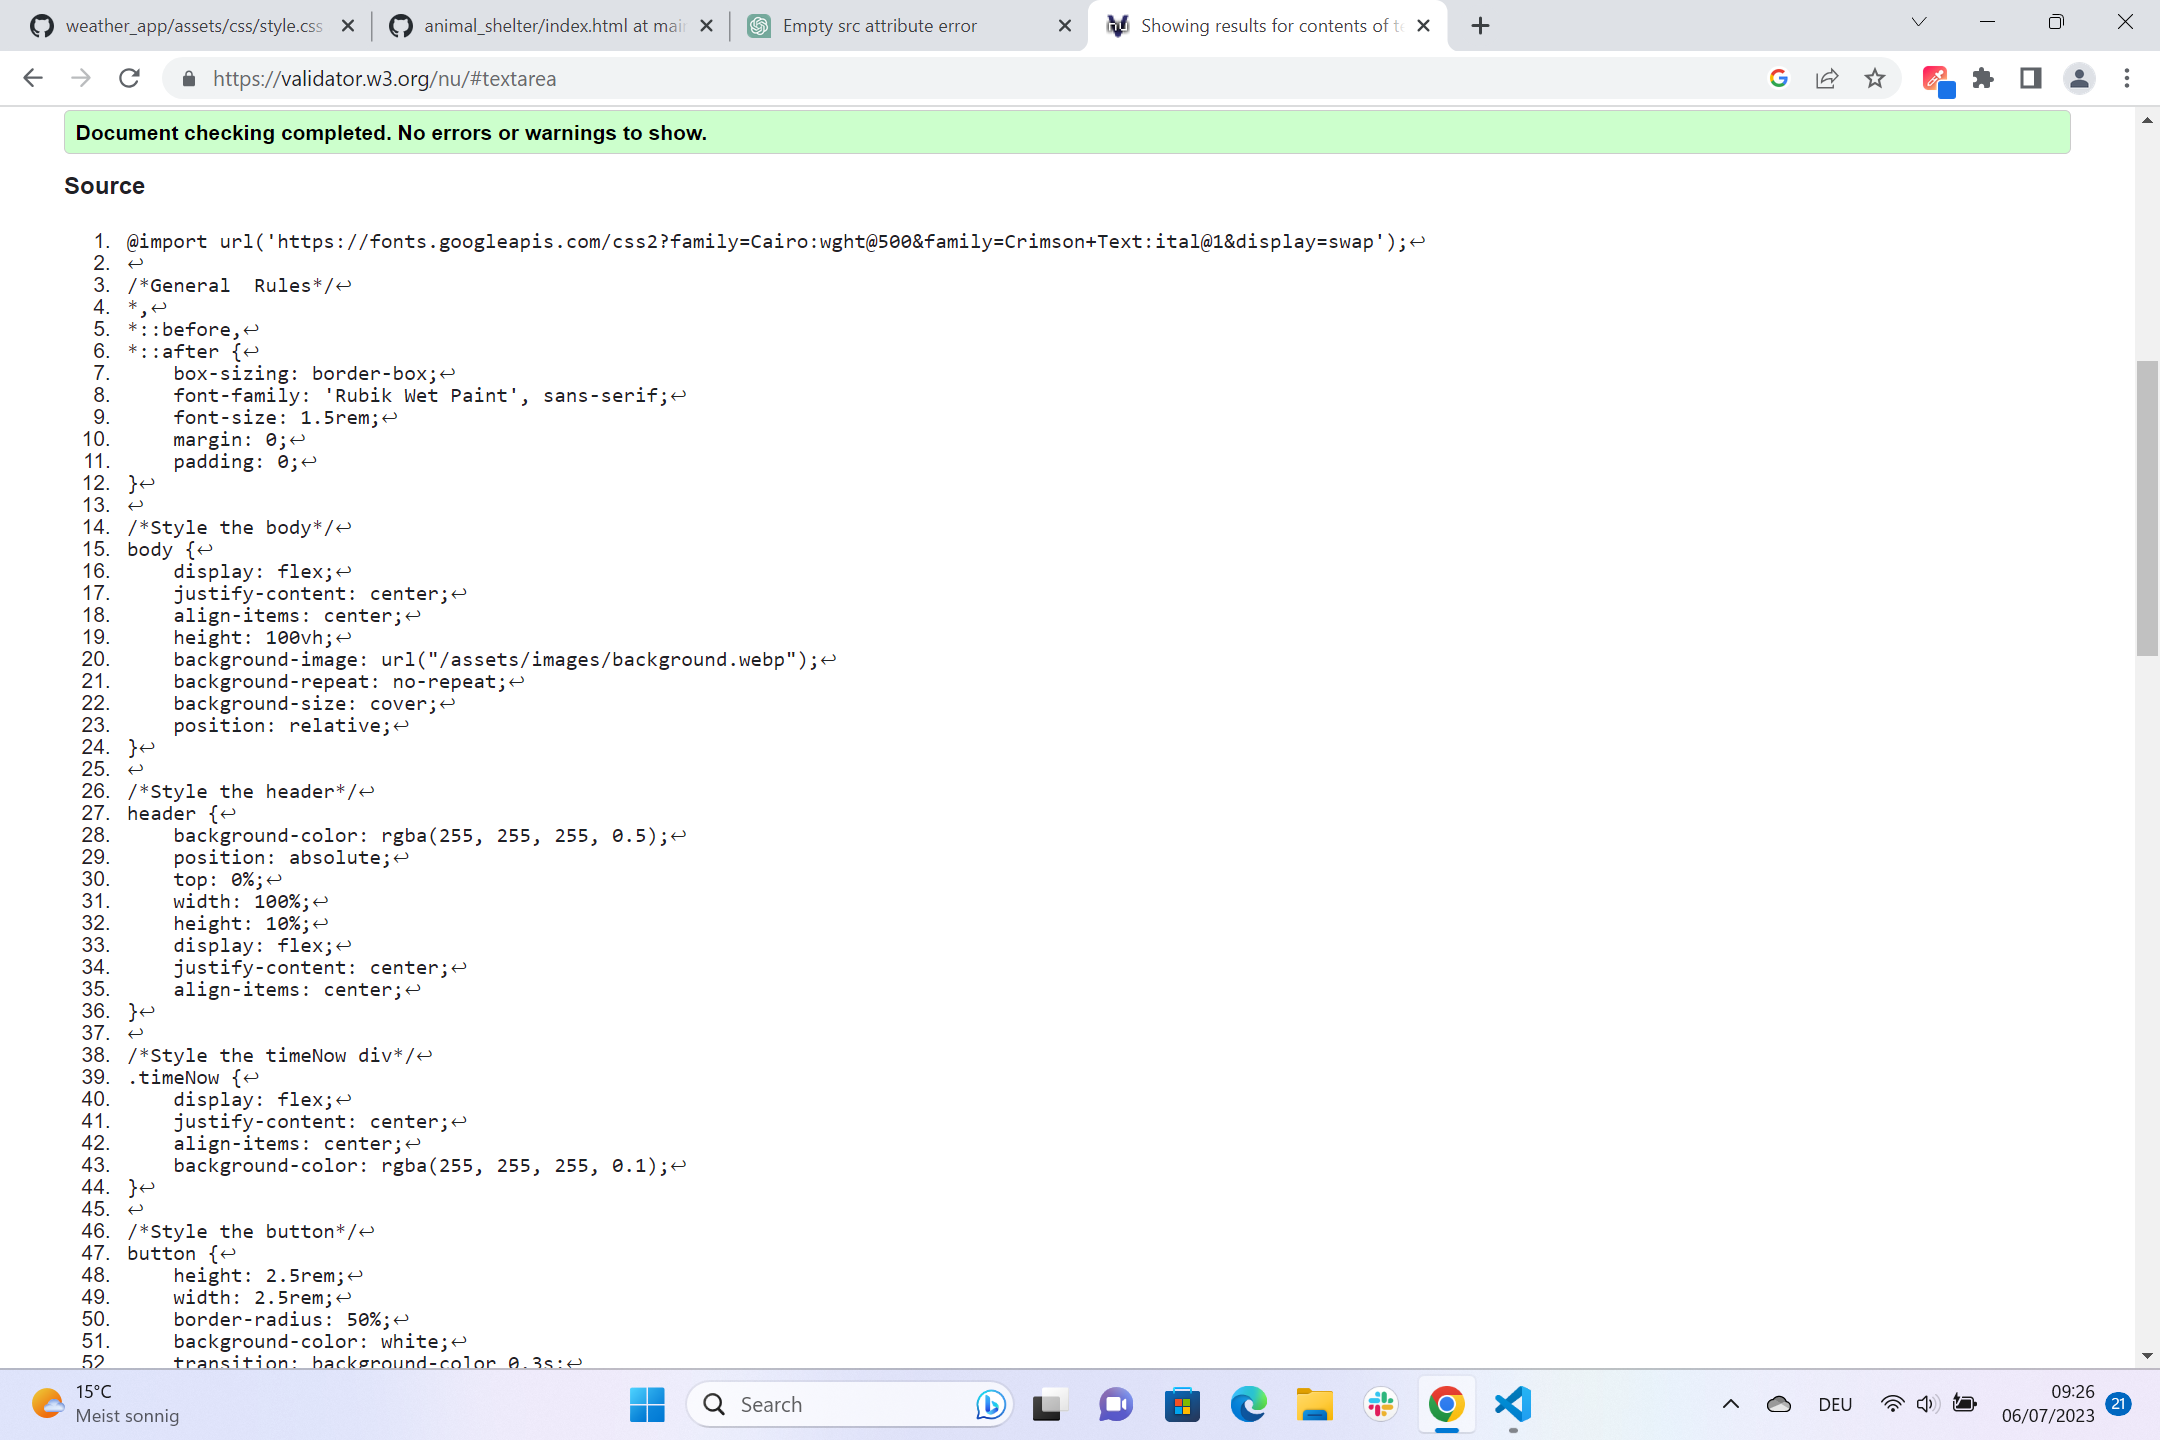
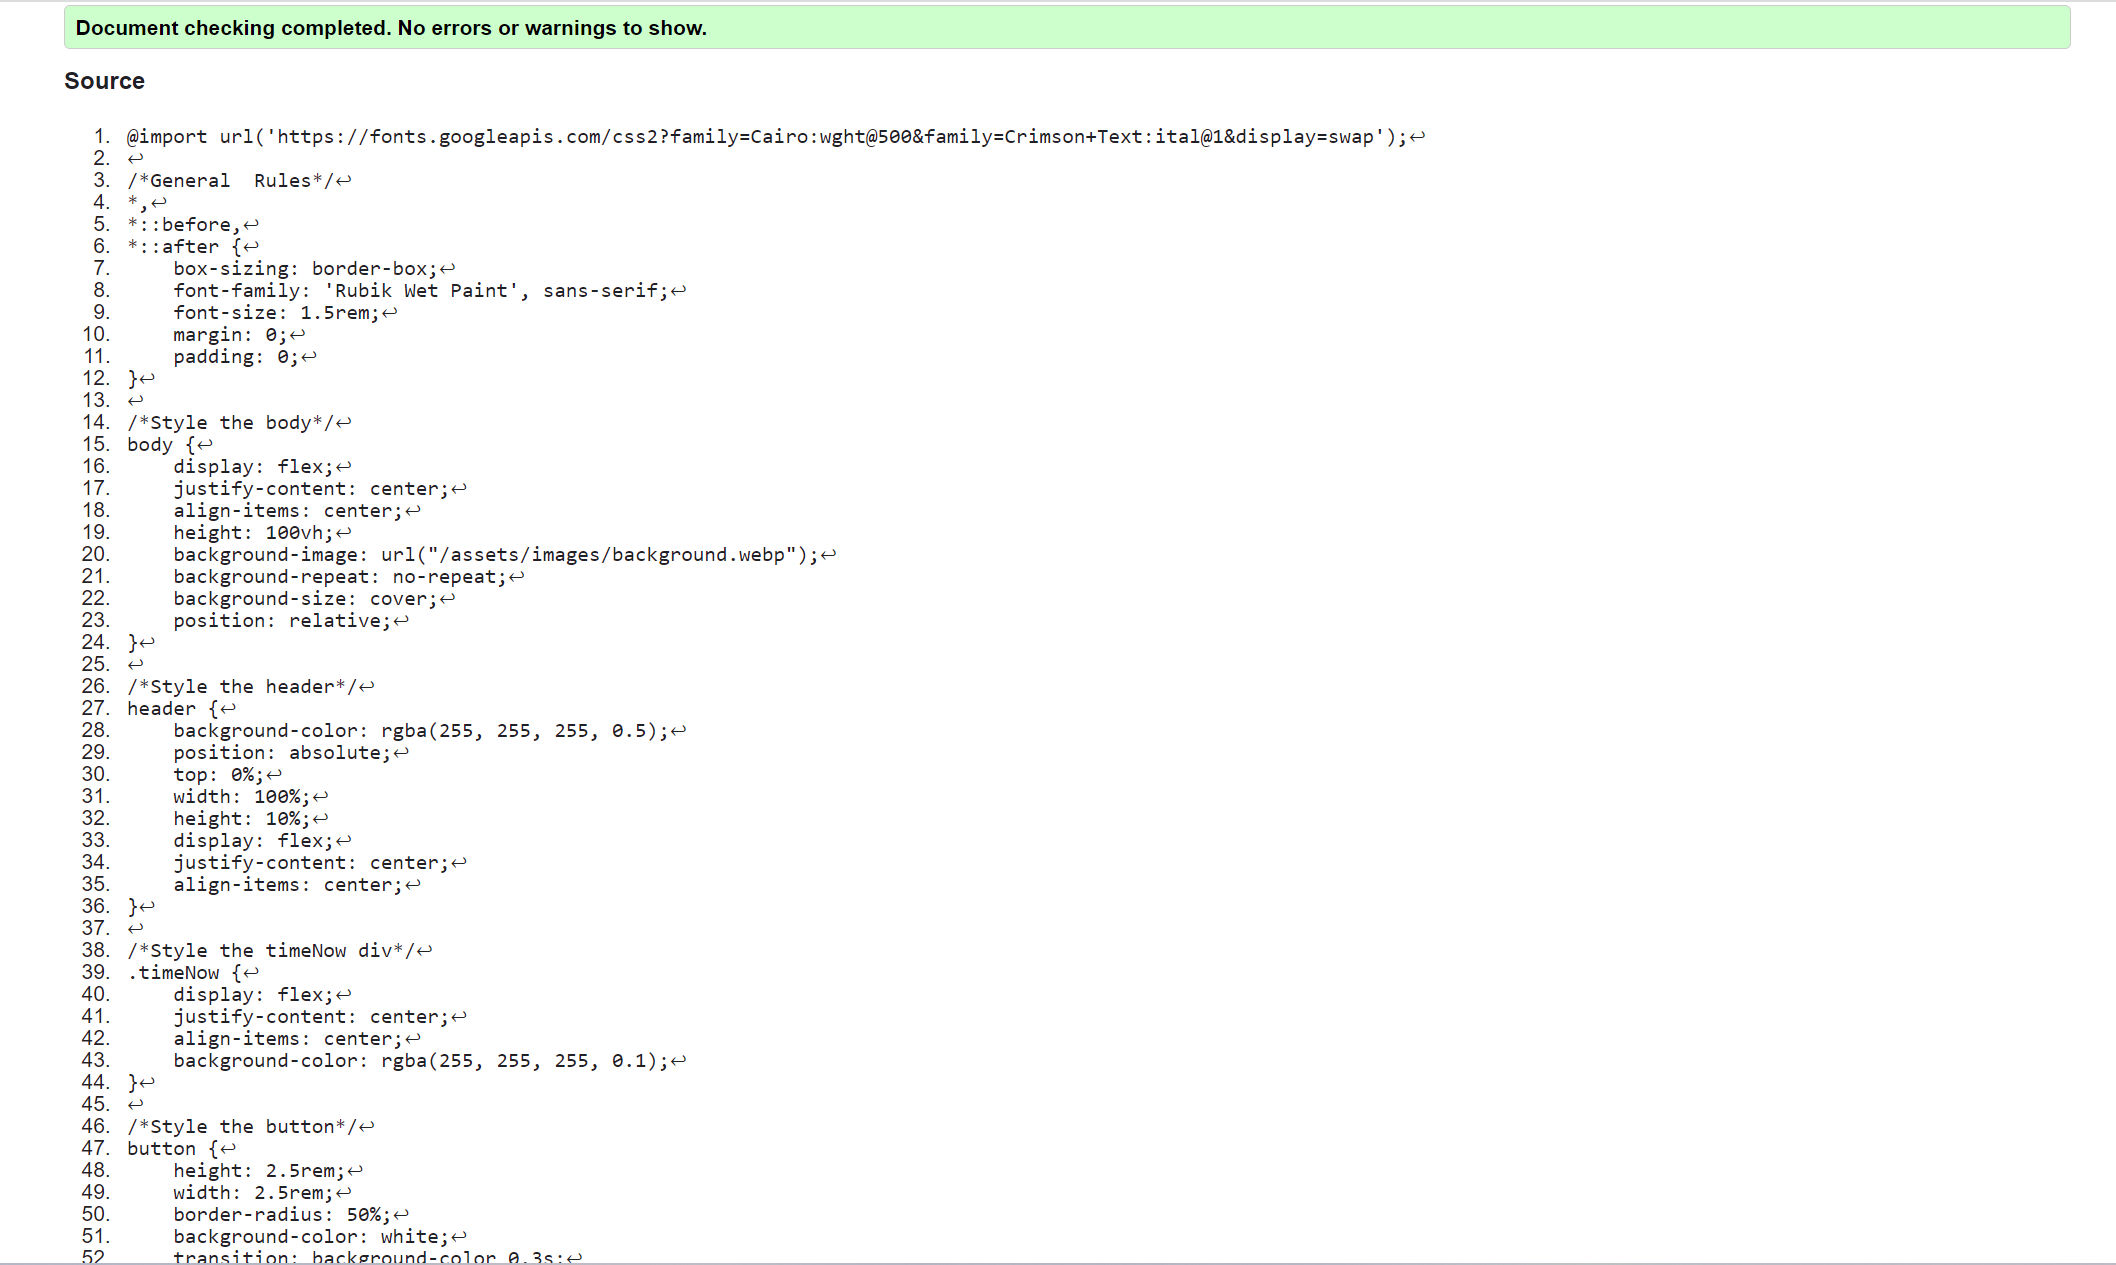
Add the correct photo to the html and corping the css photo

Changed region(s): [[0.0, 0.0, 1.0, 1.0], [0.9669, 0.2466, 1.0, 0.4625]]

diff --git a/README.md b/README.md
@@ -66,7 +66,7 @@ The site can be accessed by this [link](https://waseemrabah.github.io/weather_ap
   - No errors or warnings were found when passing through the official W3C validator.
 
 
-  ![HTML Validator](documentation/css.validator.png)
+  ![HTML Validator](documentation/html_validator.png)
 
 + ### CSS
   - No errors or warnings were found when passing through the official W3C (Jigsaw) validator.
